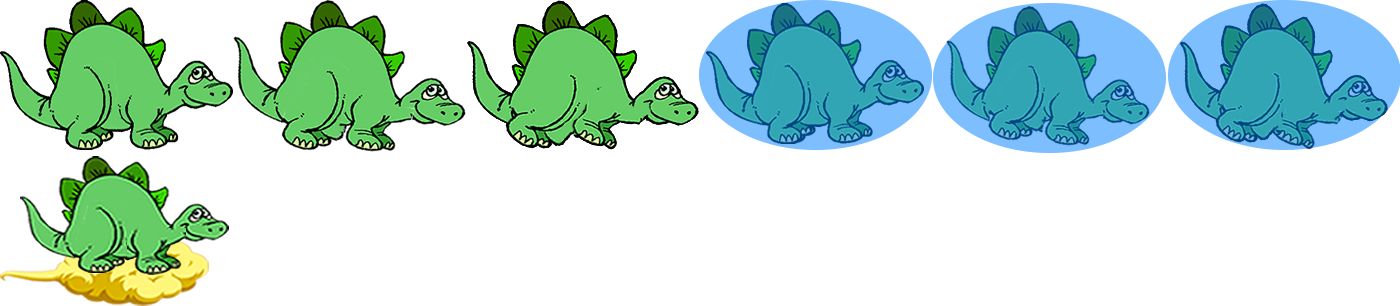
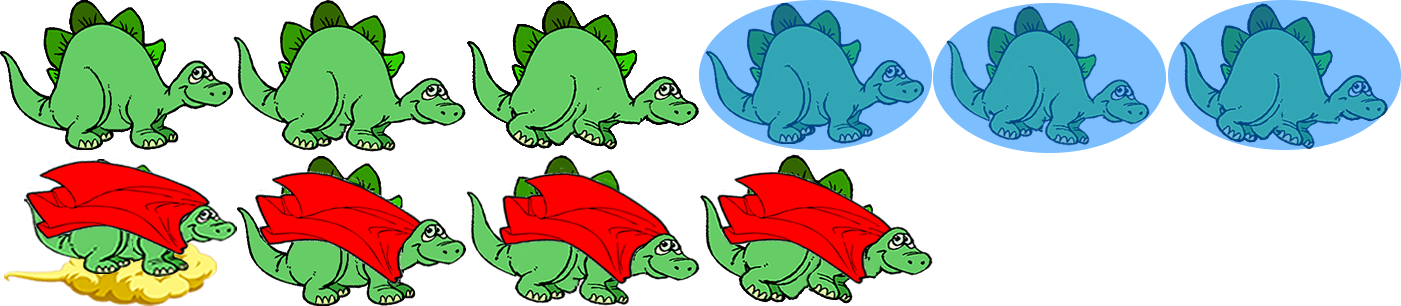
Aggiunto nuovamente il testo da abilitare ancora i super poteri con le more

diff --git a/js/game.js b/js/game.js
@@ -19,6 +19,7 @@
     this.bananas=0,this.banana=0;
     this.cilieges=0,this.ciliege=0;
     this.trees=0,this.tree=0;
+    this.fruits=0,this.fruit=0;
 
    /*size of all elements*/
     this.starH=60,this.starW=60;
@@ -37,6 +38,7 @@
     this.bananaH=60,this.bananaW=60;
     this.ciliegeH=60,this.ciliegeW=60;
     this.treeW=296,this.treeH=566;
+    this.fruitW=60,this.fruitH=60;
 
     /*x velocity elements*/
     this.playerV=180;
@@ -111,7 +113,7 @@
         game.physics.arcade.overlap(this.player, this.enemies,this.matchEnemy, null, this);
         game.physics.arcade.overlap(this.player, this.bananas,this.matchBanana, null, this);
         game.physics.arcade.overlap(this.player, this.cilieges,this.matchCiliege, null, this);
-
+        game.physics.arcade.overlap(this.player, this.fruits,this.matchFruit, null, this);
 
         if(this.medicals.countLiving()>0){
          game.physics.arcade.overlap(this.medicals.getFirstAlive(),this.player, this.matchMedical, null, this);
@@ -119,11 +121,11 @@
 
  
         var rand=Math.random()*100;
-        this.createRandomElementInMap(game.camera.x+w,game.world.height-this.enemyH-this.solidH,this.enemies,30,1500,'enemy',1,0,0,0,true,true);
+        //this.createRandomElementInMap(game.camera.x+w,game.world.height-this.enemyH-this.solidH,this.enemies,30,1500,'enemy',1,0,0,0,true,true);
          
         
         if(game.camera.x+w>this.busy_fruit_space){
-          this.busy_fruit_space=this.createElementInMap(game.camera.x+w,rand%20,rand%10,rand%5);
+          this.busy_fruit_space=this.createElementInMap(game.camera.x+w,rand%40,rand%25,rand%10);
           this.busy_fruit_space+=game.camera.x+w;
         }
 
@@ -138,29 +140,16 @@
         }
 
 
-        if(this.enemies.countLiving()>0){
-          this.enemies.getFirstAlive().frame = 1;
-          this.enemies.getFirstAlive().body.velocity.x = -80;
-        }
-
-        if(!this.lectshape){
-            var xLecter = game.camera.x+w;
-            var yLecter = game.world.height-this.solidH-this.lectH;
-
-            this.lectshape = new Shape(0,0,this.lectW,this.lectH,'null');
-            this.lectshape.setPosition('top-left');
-            this.lectshape.setLecter(this.text[this.choseText].charAt(parseInt(Math.random()*100%this.text[this.choseText].length)));
-            this.lectshape.setTextSize(100);
-            this.lectshape.initializeBitmapData();
-        }
-
-
-        //this.createRandomElementInMap(game.camera.x+w,game.world.height-this.solidH-this.lectH,this.lects,30,60,this.lectshape.bmd,1,0,0,0,true,true);
 
         if(this.lects.countLiving()>0){
             this.lects.getFirstAlive().anchor.setTo(0.5,0.5);
             this.lects.getFirstAlive().angle+=2;
         }
+
+        for(var i=0;i<this.fruits.countLiving();i++){
+         this.fruits.getAt(i).angle+=1;
+        }
+    
 
         if (game.input.activePointer.isDown) {
            
@@ -301,8 +290,7 @@
      var element, total=0,unit=this.treeW-60;
      var origin=0;
 
-     /*creo alberi*/
-     for(var i=0;i<2;i++){
+     /*for(var i=0;i<2;i++){
       if (Phaser.Math.chanceRoll(50)){
        element = this.trees.create(x+(i*unit),game.world.height-this.solidH-this.treeH,'tree');
       }else{
@@ -321,7 +309,7 @@
        total+=unit;
       }
 
-          total=total+5*unit;
+          total=total+5*unit;*/
 
      return total;
   }
@@ -339,13 +327,32 @@
       total+=unit;
      }
 
+     /*creo primo tipo di albero sopra le mele*/
+     for(var i=0;i<2;i++){
+      if (Phaser.Math.chanceRoll(50)){
+       element = this.trees.create(x+(i*this.treeW-60),game.world.height-this.solidH-this.treeH,'tree');
+      }else{
+        element = this.trees.create(x+(i*this.treeW-60),game.world.height-this.solidH-this.treeH,'tree2');
+        setCommonProperties(element);
+      }
+     }
+
      if(num_mele<10){
       total+=unit*5;
      }
 
+
      /*creo ripiani*/
      element = this.shelves.create(x+total+unit,game.world.height-this.playerH-this.solidH-this.platformH-(2/3)*this.platformH,'platform');
      setCommonProperties(element);
+
+     /*creo bombe*/
+    if (Phaser.Math.chanceRoll(60)){
+     element = this.enemies.create(x+total+unit,game.world.height-this.solidH-this.enemyH,'enemy');          
+     element.body.velocity.x = -60;
+     element.frame = 1;
+     setCommonProperties(element);
+    }
 
    if (Phaser.Math.chanceRoll(50)){
      for(var j=0;j<5;j++){
@@ -369,6 +376,12 @@
       total+=unit;
      }
 
+    /*creo secondo tipo di albero*/
+      for(var i=origin;i<2+origin;i++){
+       element = this.trees.create(x+(i*unit)+(i-origin)*(this.treeW-60),game.world.height-this.solidH-this.treeH,'tree3');
+       setCommonProperties(element);
+      }
+
      /*creo ciliege*/
      origin=parseInt(total/unit);
      for(var i=origin;i<num_ciliege+origin;i++){
@@ -377,35 +390,86 @@
       total+=unit;
      }
 
+
+
      if(num_banana<5){
       total+=unit*5;
      }
 
+
+  
      if(num_ciliege<5){
       total+=unit*5;
      }
 
      if (Phaser.Math.chanceRoll(50)){
-     /*creo altri due ripiani*/
+     /*creo altri due ripiani - questo è il primo*/
       element = this.shelves.create(x+total+unit,game.world.height-this.playerH-this.solidH-this.platformH-(2/3)*this.platformH,'platform');
       setCommonProperties(element);
-      total+=this.shelfW+2*unit;  
+
+      if (Phaser.Math.chanceRoll(25)){
+       element = this.fruits.create(x+total+unit+this.platformW/2,game.world.height-this.playerH-this.solidH-this.platformH-(2/3)*this.platformH-this.fruitH-10,'morared');
+       element.anchor.setTo(0.5,0.5);
+       setCommonProperties(element);
+      }
+
+      if (Phaser.Math.chanceRoll(20)){
+       element = this.fruits.create(x+total+unit+this.platformW/2,game.world.height-this.solidH-this.fruitH-10,'morablack');
+       element.anchor.setTo(0.5,0.5);
+       setCommonProperties(element);
+      }
+
+      total+=this.shelfW+2*unit; 
+
      }
 
 
      if (Phaser.Math.chanceRoll(50)){
-     /*creo altri due ripiani*/
+     /*creo altri due ripiani -questo è il secondo*/
       element = this.shelves.create(x+total+unit,game.world.height-this.playerH-this.solidH-this.platformH-(2/3)*this.platformH,'platform');
       setCommonProperties(element);
-      total+=this.shelfW+unit;
+
+     if (Phaser.Math.chanceRoll(35)){
+       element = this.fruits.create(x+total+unit+this.platformW/2,game.world.height-this.playerH-this.solidH-this.platformH-(2/3)*this.platformH-this.fruitH-10,'morablack');
+       element.anchor.setTo(0.5,0.5);
+       setCommonProperties(element);
      }
 
+      if (Phaser.Math.chanceRoll(20)){
+       element = this.fruits.create(x+total+unit+this.platformW/2,game.world.height-this.solidH-this.fruitH-10,'morared');
+       element.anchor.setTo(0.5,0.5);
+       setCommonProperties(element);
+      }
+
+      total+=this.shelfW+unit;
+     }
 
      if (Phaser.Math.chanceRoll(50)){
        element = this.cactuses.create(x+total+unit,game.world.height-this.solidH-this.cactusH,'cactus');
        setCommonProperties(element);
        total+=this.cactusW+unit;
      }
+
+    total+=unit*10;
+    
+     if(!this.lectshape){
+        var xLecter = game.camera.x+w;
+        var yLecter = game.world.height-this.solidH-this.lectH;
+
+        this.lectshape = new Shape(0,0,this.lectW,this.lectH,'null');
+        this.lectshape.setPosition('top-left');
+        this.lectshape.setLecter(this.text[this.choseText].charAt(parseInt(Math.random()*100%this.text[this.choseText].length)));
+        this.lectshape.setTextSize(100);
+        this.lectshape.initializeBitmapData();
+    }
+
+  
+   if (Phaser.Math.chanceRoll(80)){
+    element = this.lects.create(x+total,game.world.height-this.solidH-this.lectH-this.lectH/2,this.lectshape.bmd);
+    setCommonProperties(element);
+   }
+
+    total+=unit*10;
 
     return total;
   }
@@ -480,26 +544,7 @@
     }
 
     GameState.prototype.matchDiamond=function(){
-        /*this.diamonds.getFirstAlive().kill();
-        if(this.symbols.countLiving()==0){
-         this.symbol = this.symbols.create(10,500, 'diamond');
-         this.symbol.fixedToCamera = true;  
-        }else if(this.symbols.countLiving()==1){
-         this.symbols.getFirstAlive().kill();
-         this.symbol = this.symbols.create(10,500, 'diamond');
-         this.symbol.fixedToCamera = true; 
-         this.symbol = this.symbols.create(10,570, 'diamond');
-         this.symbol.fixedToCamera = true; 
-        }else if(this.symbols.countLiving()==2){
-         this.symbols.getFirstAlive().kill();
-         this.symbols.getFirstAlive().kill();
-         this.symbol = this.symbols.create(10,500, 'diamond');
-         this.symbol.fixedToCamera = true; 
-         this.symbol = this.symbols.create(10,570, 'diamond');
-         this.symbol.fixedToCamera = true; 
-         this.symbol = this.symbols.create(10,630, 'diamond');
-         this.symbol.fixedToCamera = true; 
-        }*/
+
     }
     
     GameState.prototype.matchEnemy=function(){
@@ -530,6 +575,10 @@
      this.cactuses.getFirstAlive().kill();
     }
      
+    GameState.prototype.matchFruit=function(player,fruit){
+      fruit.kill();
+     //this.player.animations.play('superman');
+    }
    
     GameState.prototype.matchMedical=function(){
         this.medicals.getFirstAlive().kill();
@@ -680,8 +729,9 @@
         }
     }
 
+    /*tra 100 e 250*/
     function onSwipeUp() {
-            return ((game.input.activePointer.positionDown.y - game.input.activePointer.position.y) > 50 && game.input.activePointer.duration > 100 && game.input.activePointer.duration < 250);
+            return ((game.input.activePointer.positionDown.y - game.input.activePointer.position.y) > 50 && game.input.activePointer.duration > 100 && game.input.activePointer.duration < 400);
     }
 
     function onSwipeRight() {
@@ -706,6 +756,8 @@
         game.load.image('tree', 'assets/tree.png');
         game.load.image('tree2', 'assets/tree2.png');
         game.load.image('tree3', 'assets/tree3.png');
+        game.load.image('morared', 'assets/morared.png');
+        game.load.image('morablack', 'assets/morablack.png');
         
         game.load.spritesheet('boom', 'assets/boom.png', this.boomW, this.boomH);
         game.load.spritesheet('enemy', 'assets/bombe_.png', this.enemyW, this.enemyH);
@@ -729,8 +781,6 @@
     this.platforms = game.add.group();                                                     
     this.platforms.enableBody = true;
 
-    this.enemies = game.add.group();
-    this.enemies.enableBody = true;  
 
     this.stars = game.add.group();                                                          //creaiamo il gruppo stars
     this.stars.enableBody = true;                                                           //abilitiamo tutte le stelle che sono state create in questo gruppo
@@ -769,6 +819,12 @@
 
     this.cilieges=game.add.group();
     this.cilieges.enableBody = true;
+
+    this.fruits=game.add.group();
+    this.fruits.enableBody = true;
+
+    this.enemies = game.add.group();
+    this.enemies.enableBody = true;  
 
     this.textGroup=game.add.group();
                                                      
@@ -846,7 +902,8 @@
   GameState.prototype.configureAnimationElement=function(){
        this.player.animations.add('ice', [3,4,5], 10, true);                             
        this.player.animations.add('right', [0,1,2], 10, true);
-       this.player.animations.add('cloud', [6], 10, true);     
+       this.player.animations.add('cloud', [6], 10, true);
+       this.player.animations.add('superman', [7,8,9], 10, true);      
 
        this.enemies.callAll('animations.add', 'animations', 'left', [1], 10, true);   
        this.enemies.callAll('animations.add', 'animations', 'right', [0], 10, true);
